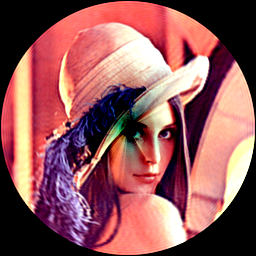
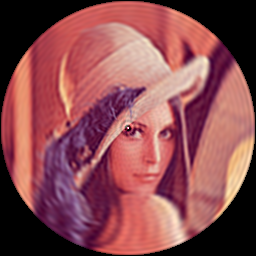
Fixed negative p

diff --git a/src/fourier/FourierMomentsColor.py b/src/fourier/FourierMomentsColor.py
@@ -48,21 +48,19 @@ class FourierMomentsColor:
 		self.ZfG = ZfG
 		self.ZfB = ZfB
 
-		# Last index: 0 = positive p, 1 = negative p
-		self.Zre = np.zeros([self.maxP + 1, self.maxQ + 1, 2])
-		self.Zi  = np.zeros([self.maxP + 1, self.maxQ + 1, 2])
-		self.Zj  = np.zeros([self.maxP + 1, self.maxQ + 1, 2])
-		self.Zk  = np.zeros([self.maxP + 1, self.maxQ + 1, 2])
+		self.Zre = np.zeros([self.maxP + 1, self.maxQ + 1])
+		self.Zi  = np.zeros([self.maxP + 1, self.maxQ + 1])
+		self.Zj  = np.zeros([self.maxP + 1, self.maxQ + 1])
+		self.Zk  = np.zeros([self.maxP + 1, self.maxQ + 1])
 
 		sqrt3inv = 1.0 / np.sqrt(3.0)
 
 		for p in range(self.maxP + 1):
 			for q in range(self.maxQ + 1):
-				for i in [0,1]:
-					self.Zre[p, q, i] = - sqrt3inv * (ZfR.Zim[p, q, i] + ZfG.Zim[p, q, i] + ZfB.Zim[p, q, i])
-					self.Zi[p, q, i] = ZfR.Zre[p, q, i] + sqrt3inv * (ZfG.Zim[p, q, i] - ZfB.Zim[p, q, i])
-					self.Zj[p, q, i] = ZfG.Zre[p, q, i] + sqrt3inv * (ZfB.Zim[p, q, i] - ZfR.Zim[p, q, i])
-					self.Zk[p, q, i] = ZfB.Zre[p, q, i] + sqrt3inv * (ZfR.Zim[p, q, i] - ZfG.Zim[p, q, i])
+				self.Zre[p, q] = - sqrt3inv * (ZfR.Zim[p, q] + ZfG.Zim[p, q] + ZfB.Zim[p, q])
+				self.Zi[p, q] = ZfR.Zre[p, q] + sqrt3inv * (ZfG.Zim[p, q] - ZfB.Zim[p, q])
+				self.Zj[p, q] = ZfG.Zre[p, q] + sqrt3inv * (ZfB.Zim[p, q] - ZfR.Zim[p, q])
+				self.Zk[p, q] = ZfB.Zre[p, q] + sqrt3inv * (ZfR.Zim[p, q] - ZfG.Zim[p, q])
 		if self.verbose:
 			print("Fourier moment calculation done.")
 
@@ -123,7 +121,7 @@ def prepareReconstruction(N, maxQ, thetas, sins, coss):
 				sins[x,y,q] = np.sin(q*thetas[x,y])
 				coss[x,y,q] = np.cos(q*thetas[x,y])
 
-@jit(void(int64, int64, int64, float64[:,:], float64[:,:,:], float64[:,:,:], float64[:,:,:], float64[:,:,:], float64[:,:,:], float64[:,:,:], float64[:,:,:], float64[:,:,:], float64[:,:,:], uint8[:,:,:], float64[:]), nopython=False)
+@jit(void(int64, int64, int64, float64[:,:], float64[:,:,:], float64[:,:,:], float64[:,:], float64[:,:], float64[:,:], float64[:,:], float64[:,:], float64[:,:], float64[:,:], uint8[:,:,:], float64[:]), nopython=False)
 def reconstructImageArray(N, maxP, maxQ, rs, sins, coss, Zre, Zi, Zj, Zk, ZRRe, ZGRe, ZBRe, imageArray, zeros):
 	sqrt3inv = 1.0 / np.sqrt(3.0)
 	for x in range(N):
@@ -133,34 +131,21 @@ def reconstructImageArray(N, maxP, maxQ, rs, sins, coss, Zre, Zi, Zj, Zk, ZRRe, 
 			values = zeros.copy()
 			negValues = zeros.copy()
 			calculateFourierKernel(rs[x,y], maxP, values)
-			calculateFourierKernelNegativeP(rs[x,y], maxP, negValues)
 			value = [0.0, 0.0, 0.0] # RGB
 			for p in range(0, maxP + 1):
 				# q == 0
 				tmp = sqrt3inv * sins[x,y,0]
-				value[0] += values[p] * (tmp * (Zre[p,0,0] + Zj[p,0,0] - Zk[p,0,0]) + coss[x,y,0]*Zi[p,0,0])
-				value[1] += values[p] * (tmp * (Zre[p,0,0] + Zk[p,0,0] - Zi[p,0,0]) + coss[x,y,0]*Zj[p,0,0])
-				value[2] += values[p] * (tmp * (Zre[p,0,0] + Zi[p,0,0] - Zj[p,0,0]) + coss[x,y,0]*Zk[p,0,0])
-
-				# Negative p and q == 0
-				if p != 0:
-					value[0] += negValues[p] * (tmp * (Zre[p,0,1] + Zj[p,0,1] - Zk[p,0,1]) + coss[x,y,0]*Zi[p,0,1])
-					value[1] += negValues[p] * (tmp * (Zre[p,0,1] + Zk[p,0,1] - Zi[p,0,1]) + coss[x,y,0]*Zj[p,0,1])
-					value[2] += negValues[p] * (tmp * (Zre[p,0,1] + Zi[p,0,1] - Zj[p,0,1]) + coss[x,y,0]*Zk[p,0,1])
+				value[0] += values[p] * (tmp * (Zre[p,0] + Zj[p,0] - Zk[p,0]) + coss[x,y,0]*Zi[p,0])
+				value[1] += values[p] * (tmp * (Zre[p,0] + Zk[p,0] - Zi[p,0]) + coss[x,y,0]*Zj[p,0])
+				value[2] += values[p] * (tmp * (Zre[p,0] + Zi[p,0] - Zj[p,0]) + coss[x,y,0]*Zk[p,0])
 
 				for q in range(1, maxQ + 1):
 					tmp = sqrt3inv * sins[x,y,q]
 					# Formula without explicitly calculating negative qs
-					value[0] += 2 * values[p] * (tmp * (Zre[p,q,0] + (Zj[p,q,0] - ZGRe[p,q,0]) - (Zk[p,q,0] - ZBRe[p,q,0])) + coss[x,y,q] * ZRRe[p,q,0])
-					value[1] += 2 * values[p] * (tmp * (Zre[p,q,0] + (Zk[p,q,0] - ZBRe[p,q,0]) - (Zi[p,q,0] - ZRRe[p,q,0])) + coss[x,y,q] * ZGRe[p,q,0])
-					value[2] += 2 * values[p] * (tmp * (Zre[p,q,0] + (Zi[p,q,0] - ZRRe[p,q,0]) - (Zj[p,q,0] - ZGRe[p,q,0])) + coss[x,y,q] * ZBRe[p,q,0])
+					value[0] += 2 * values[p] * (tmp * (Zre[p,q] + (Zj[p,q] - ZGRe[p,q]) - (Zk[p,q] - ZBRe[p,q])) + coss[x,y,q] * ZRRe[p,q])
+					value[1] += 2 * values[p] * (tmp * (Zre[p,q] + (Zk[p,q] - ZBRe[p,q]) - (Zi[p,q] - ZRRe[p,q])) + coss[x,y,q] * ZGRe[p,q])
+					value[2] += 2 * values[p] * (tmp * (Zre[p,q] + (Zi[p,q] - ZRRe[p,q]) - (Zj[p,q] - ZGRe[p,q])) + coss[x,y,q] * ZBRe[p,q])
 			
-					# Negative p
-					if p != 0:
-						value[0] += 2 * negValues[p] * (tmp * (Zre[p,q,1] + (Zj[p,q,1] - ZGRe[p,q,1]) - (Zk[p,q,1] - ZBRe[p,q,1])) + coss[x,y,q] * ZRRe[p,q,1])
-						value[1] += 2 * negValues[p] * (tmp * (Zre[p,q,1] + (Zk[p,q,1] - ZBRe[p,q,1]) - (Zi[p,q,1] - ZRRe[p,q,1])) + coss[x,y,q] * ZGRe[p,q,1])
-						value[2] += 2 * negValues[p] * (tmp * (Zre[p,q,1] + (Zi[p,q,1] - ZRRe[p,q,1]) - (Zj[p,q,1] - ZGRe[p,q,1])) + coss[x,y,q] * ZBRe[p,q,1])
-
 			for i in range(3):
 				if value[i] > 255:
 					# print(x,y)

diff --git a/src/fourier/FourierMomentsMonochrome.py b/src/fourier/FourierMomentsMonochrome.py
@@ -42,9 +42,8 @@ class FourierMomentsMonochrome:
 
 			prepare(self.trans.N, self.maxQ, self.trans.thetas, self.sins, self.coss)
 		
-		# Last index: 0 = positive p, 1 = negative p
-		self.Zre = np.zeros([self.maxP + 1, self.maxQ + 1, 2])
-		self.Zim = np.zeros([self.maxP + 1, self.maxQ + 1, 2])
+		self.Zre = np.zeros([self.maxP + 1, self.maxQ + 1])
+		self.Zim = np.zeros([self.maxP + 1, self.maxQ + 1])
 
 		# Calculate:
 		zeros = np.zeros([self.maxP + 1], dtype='float')
@@ -52,11 +51,8 @@ class FourierMomentsMonochrome:
 
 		for p in range(self.maxP + 1):
 			for q in range(self.maxQ + 1):
-				self.Zre[p,q,0] *= self.trans.lam
-				self.Zim[p,q,0] *= self.trans.lam
-
-				self.Zre[p,q,1] *= self.trans.lam
-				self.Zim[p,q,1] *= self.trans.lam
+				self.Zre[p,q] *= self.trans.lam
+				self.Zim[p,q] *= self.trans.lam
 
 		# print moments:
 		# for p in range(self.maxP + 1):
@@ -101,29 +97,23 @@ class FourierMomentsMonochrome:
 		return eps
 
 
-@jit(void(int64, int64, int64, int64, float64[:], float64[:], float64[:,:,:], float64[:,:], float64[:,:], float64[:,:,:], float64[:,:,:], float64[:]), nopython=True)
+@jit(void(int64, int64, int64, int64, float64[:], float64[:], float64[:,:,:], float64[:,:], float64[:,:], float64[:,:], float64[:,:], float64[:]), nopython=True)
 def calculate(N, maxP, maxQ, colorIndex, rs, thetas, img, sins, coss, Zre, Zim, zeros):
 	for k in range(N):
 		values = zeros.copy()
 		negValues = zeros.copy()
 		calculateFourierKernel(rs[k], maxP, values)
-		calculateFourierKernelNegativeP(rs[k], maxP, negValues)
 		for p in range(0, maxP + 1):
 			values[p] = rs[k]*values[p]
-			negValues[p] = rs[k]*negValues[p]
 		
 		for j in range(N):
 			for p in range(0, maxP + 1):
 				for q in range(0, maxQ + 1):
 					tmp = values[p] * img[k,j,colorIndex]
-					Zre[p, q, 0] += coss[j,q] * tmp
-					Zim[p, q, 0] += -sins[j,q] * tmp
+					Zre[p, q] += coss[j,q] * tmp
+					Zim[p, q] += -sins[j,q] * tmp
 
-					tmp = negValues[p] * img[k,j,colorIndex]
-					Zre[p, q, 1] += coss[j,q] * tmp
-					Zim[p, q, 1] += -sins[j,q] * tmp
-
-@jit(void(int64, int64, int64, float64[:,:], float64[:,:,:], float64[:,:,:], float64[:,:,:], float64[:,:,:], uint8[:,:], float64[:]), nopython=False)
+@jit(void(int64, int64, int64, float64[:,:], float64[:,:,:], float64[:,:,:], float64[:,:], float64[:,:], uint8[:,:], float64[:]), nopython=False)
 def reconstructImageArray(N, maxP, maxQ, rs, sins, coss, Zre, Zim, imageArray, zeros):
 	for x in range(N):
 		for y in range(N):
@@ -133,9 +123,9 @@ def reconstructImageArray(N, maxP, maxQ, rs, sins, coss, Zre, Zim, imageArray, z
 			calculateFourierKernel(rs[x,y], maxP, values)
 			value = 0 # Greyscale
 			for p in range(0, maxP + 1):
-				value += values[p] * (Zre[p,0,0] * coss[x,y,0] - Zim[p,0,0] * sins[x,y,0])
+				value += values[p] * (Zre[p,0] * coss[x,y,0] - Zim[p,0] * sins[x,y,0])
 				for q in range(1, maxQ + 1):
-					value += 2 * values[p] * (Zre[p,q,0] * coss[x,y,q] - Zim[p,q,0] * sins[x,y,q])
+					value += 2 * values[p] * (Zre[p,q] * coss[x,y,q] - Zim[p,q] * sins[x,y,q])
 
 			if value > 255:
 				value = 255

diff --git a/src/RadialPolynomials.py b/src/RadialPolynomials.py
@@ -49,26 +49,3 @@ def calculateFourierKernel(r, maxP, values):
 	# Odd p
 	for p in range(1, maxP + 1, 2):
 		values[p] = sq2r * np.sin(np.pi * (p + 1) * r)
-
-@jit(void(float64, int32, float64[:]), nopython=True)
-def calculateFourierKernelNegativeP(r, maxP, values):
-	"""
-	Create and store the values of the Fourier kernel functions
-	for a single given r,
-	for p = -maxP..0
-	
-	Assumes r in [0..1]
-	"""
-	# TODO: What if r == 0?
-	if r < 1e-8:
-		r = 1e-8
-
-	values[0] = 1.0 / np.sqrt(r)
-	sq2r = np.sqrt(2.0 / r)
-	# Even p
-	for p in range(2, maxP + 1, 2):
-		values[p] = sq2r * np.cos(np.pi * (-p) * r)
-	
-	# Odd p
-	for p in range(1, maxP + 1, 2):
-		values[p] = sq2r * np.sin(np.pi * (-p + 1) * r)
